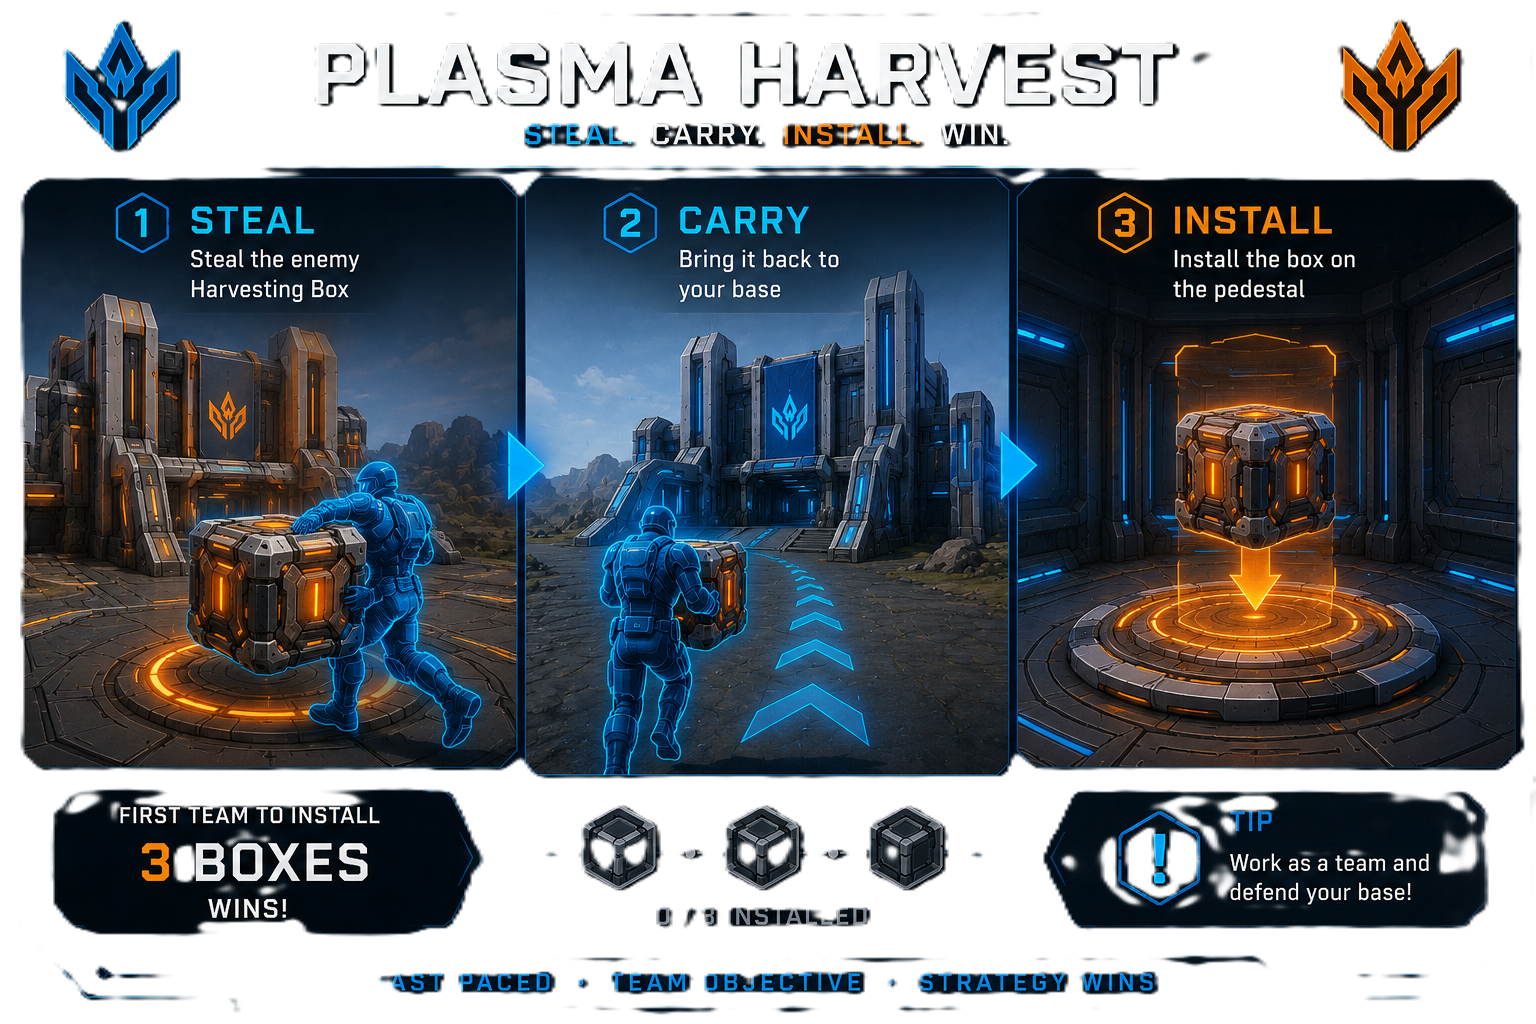
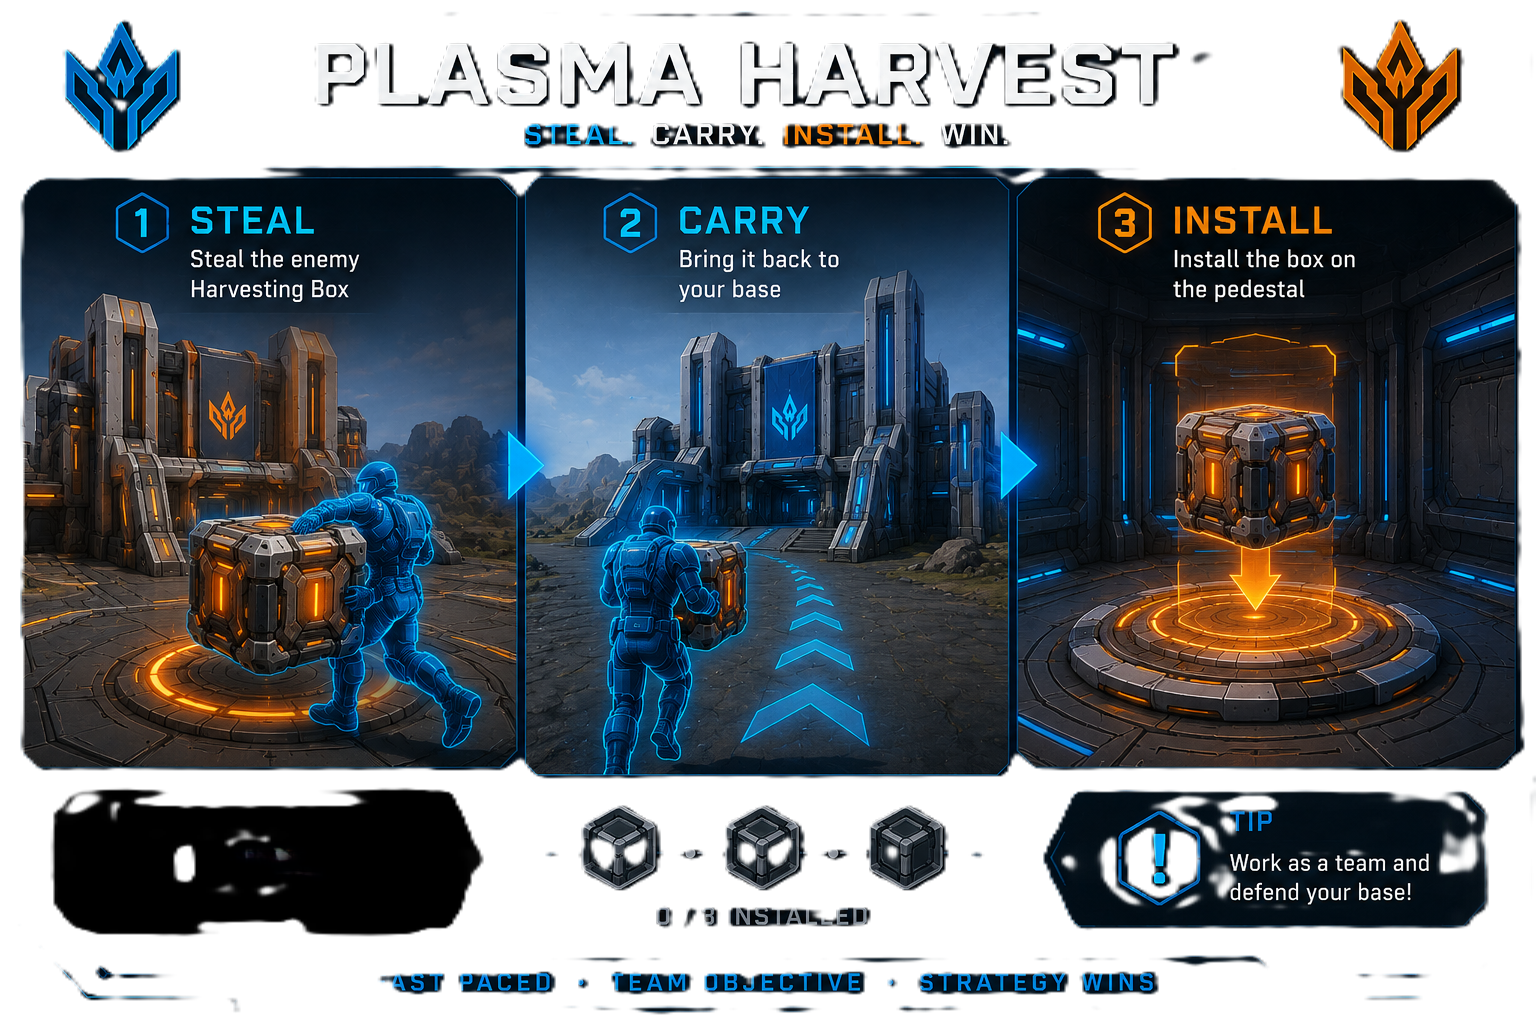
harvest ui

Changed region(s): [[0.0625, 0.7812, 0.25, 0.9062]]

diff --git a/src/styles/game-hud.css b/src/styles/game-hud.css
@@ -1419,33 +1419,34 @@ body.game-page * {
   display: flex;
   align-items: center;
   justify-content: center;
-  gap: 0.35rem;
-  padding: 0.2rem 0.55rem;
+  gap: 0.5rem;
+  min-width: 6.5rem;
+  padding: 0.4rem 0.85rem;
   border: 1px solid var(--hud-cyan-border);
-  border-radius: 4px;
+  border-radius: 5px;
   background: var(--hud-bg);
   backdrop-filter: blur(10px);
   -webkit-backdrop-filter: blur(10px);
-  box-shadow: 0 0 12px rgba(0, 0, 0, 0.35);
+  box-shadow: 0 0 14px rgba(0, 0, 0, 0.4);
 }
 .match-hud-local-minerals[hidden] {
   display: none !important;
 }
 .match-hud-local-minerals-icon {
-  width: 1.15rem;
-  height: 1.15rem;
+  width: 1.75rem;
+  height: 1.75rem;
   object-fit: contain;
   user-select: none;
   pointer-events: none;
-  filter: drop-shadow(0 0 4px rgba(120, 255, 220, 0.45));
+  filter: drop-shadow(0 0 5px rgba(120, 255, 220, 0.5));
 }
 .match-hud-local-minerals-value {
   color: #fff;
-  font-size: 0.95rem;
+  font-size: 1.35rem;
   font-weight: 800;
-  letter-spacing: 0.04em;
+  letter-spacing: 0.05em;
   line-height: 1;
-  text-shadow: 0 0 10px var(--hud-cyan-glow);
+  text-shadow: 0 0 12px var(--hud-cyan-glow);
 }
 @keyframes match-hud-team-badge-pulse {
   0%,
